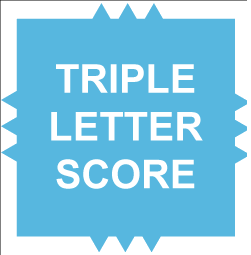
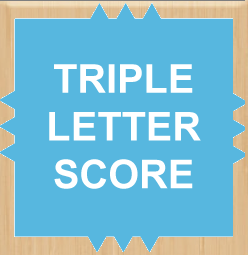
Fixed board styling

diff --git a/public/stylesheets/style.css b/public/stylesheets/style.css
@@ -19,26 +19,38 @@ a {
   opacity: 0.1;
 }
 
-.tg  {border-collapse:collapse;border-spacing:0;}
-
-.tg td {
-  font-family:Arial, sans-serif;
-  font-size:14px;
-  padding:10px 5px;
-  border-style:solid;
-  border-width:1px;
-  overflow:hidden;
-  word-break:normal;
-  width:60px;
-  height:60px;
- }
-
 .board-tiles-active {
   opacity: 1;
+  height: 50px;
 }
 
 .board-tiles-inactive {
   opacity: 0.1;
-};
+  height: 50px;
+}
 
-.tg th{font-family:Arial, sans-serif;font-size:14px;font-weight:normal;border-style:solid;border-width:1px;overflow:hidden;word-break:normal;}
+.tg  {
+  border-collapse:collapse;
+  border-spacing:0;
+}
+
+.tg td {
+  font-family:Arial, sans-serif;
+  font-size:14px;
+  border-style:solid;
+  border-width:1px;
+  overflow:hidden;
+  word-break:normal;
+  width:50px;
+  height:50px;
+ }
+
+.tg th {
+  font-family:Arial, sans-serif;
+  font-size:14px;
+  font-weight:normal;
+  border-style:solid;
+  border-width:1px;
+  overflow:hidden;
+  word-break:normal;
+}
